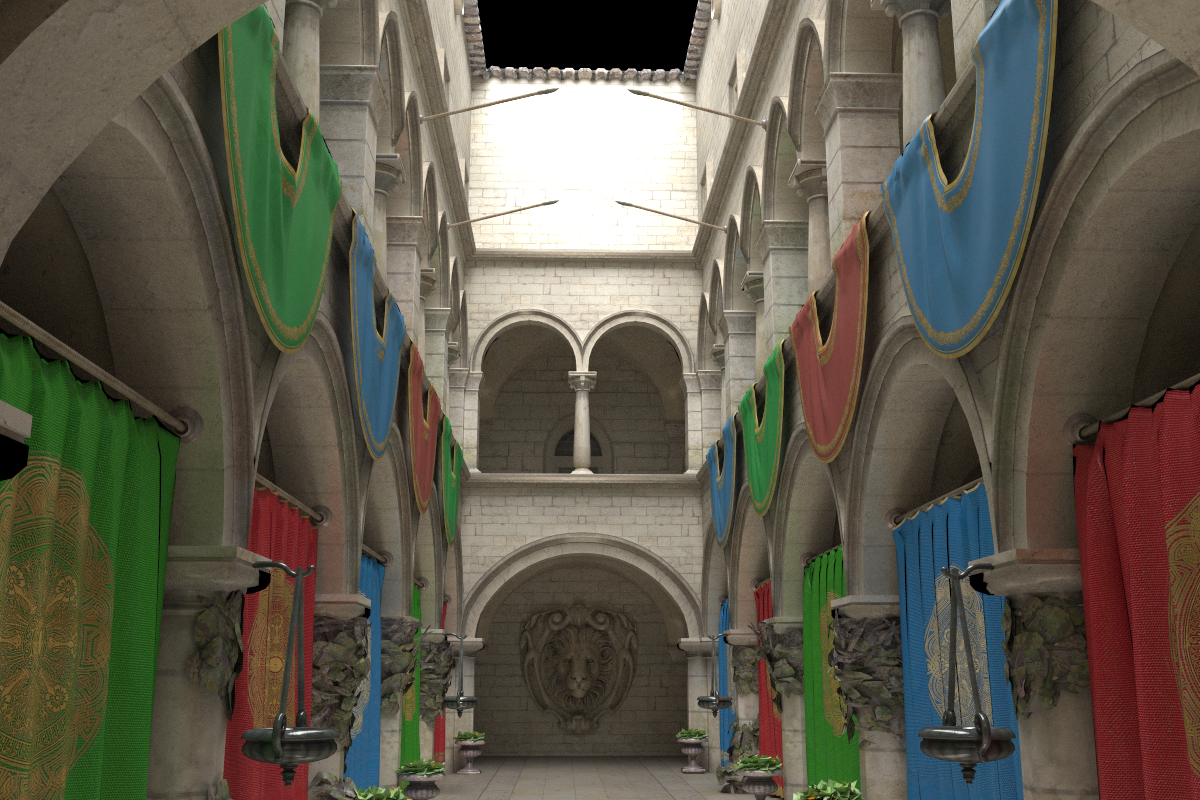
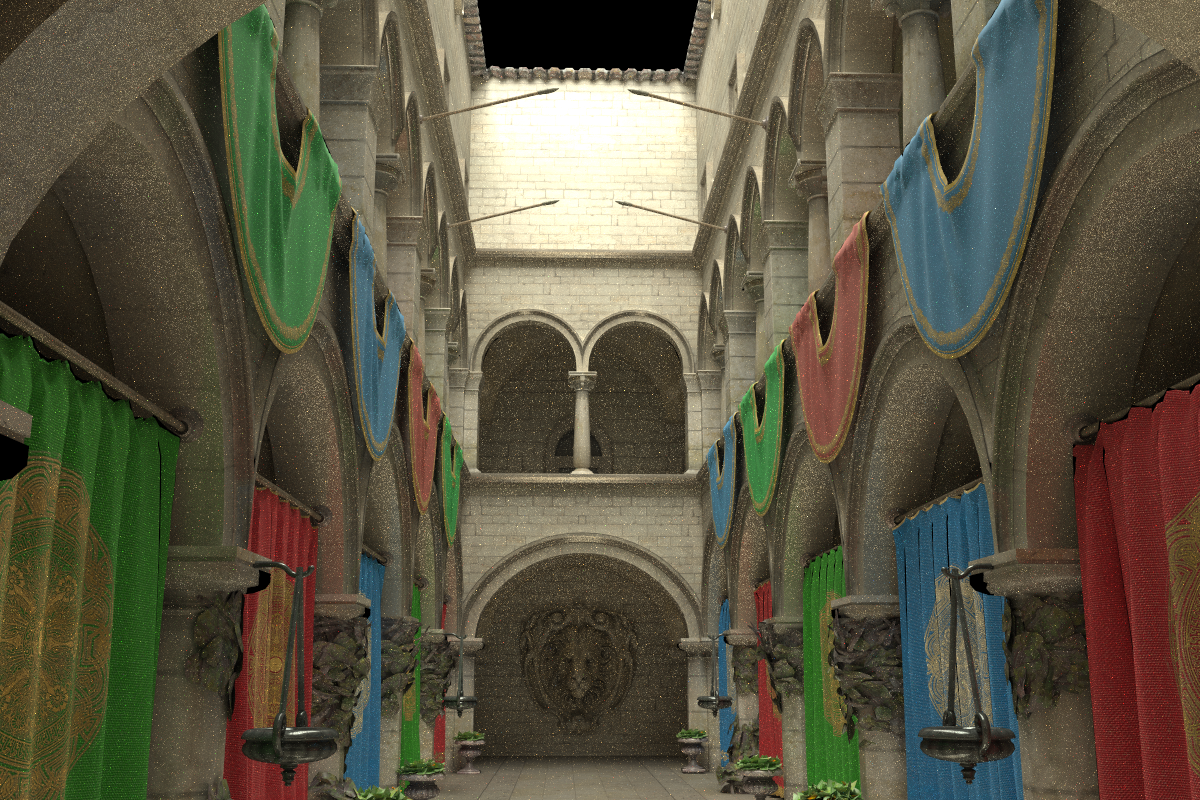
mis rebuild

diff --git a/raytrace_work/config.h b/raytrace_work/config.h
@@ -1,6 +1,6 @@
 # pragma once
 # define VISUALIZE true
-# define DOWNLOAD 0
+# define DOWNLOAD 1
 # define DOWNLOAD_DIR "../../output/"
 # define FIXED_CAMERA 1
 # define VISIBLE_MOUSE 0
@@ -10,4 +10,4 @@
 # define MY_BRDF 0
 # define MY_NEE 1
 # define MY_MIS 2
-# define MY_MODE MY_BRDF
+# define MY_MODE MY_MIS
